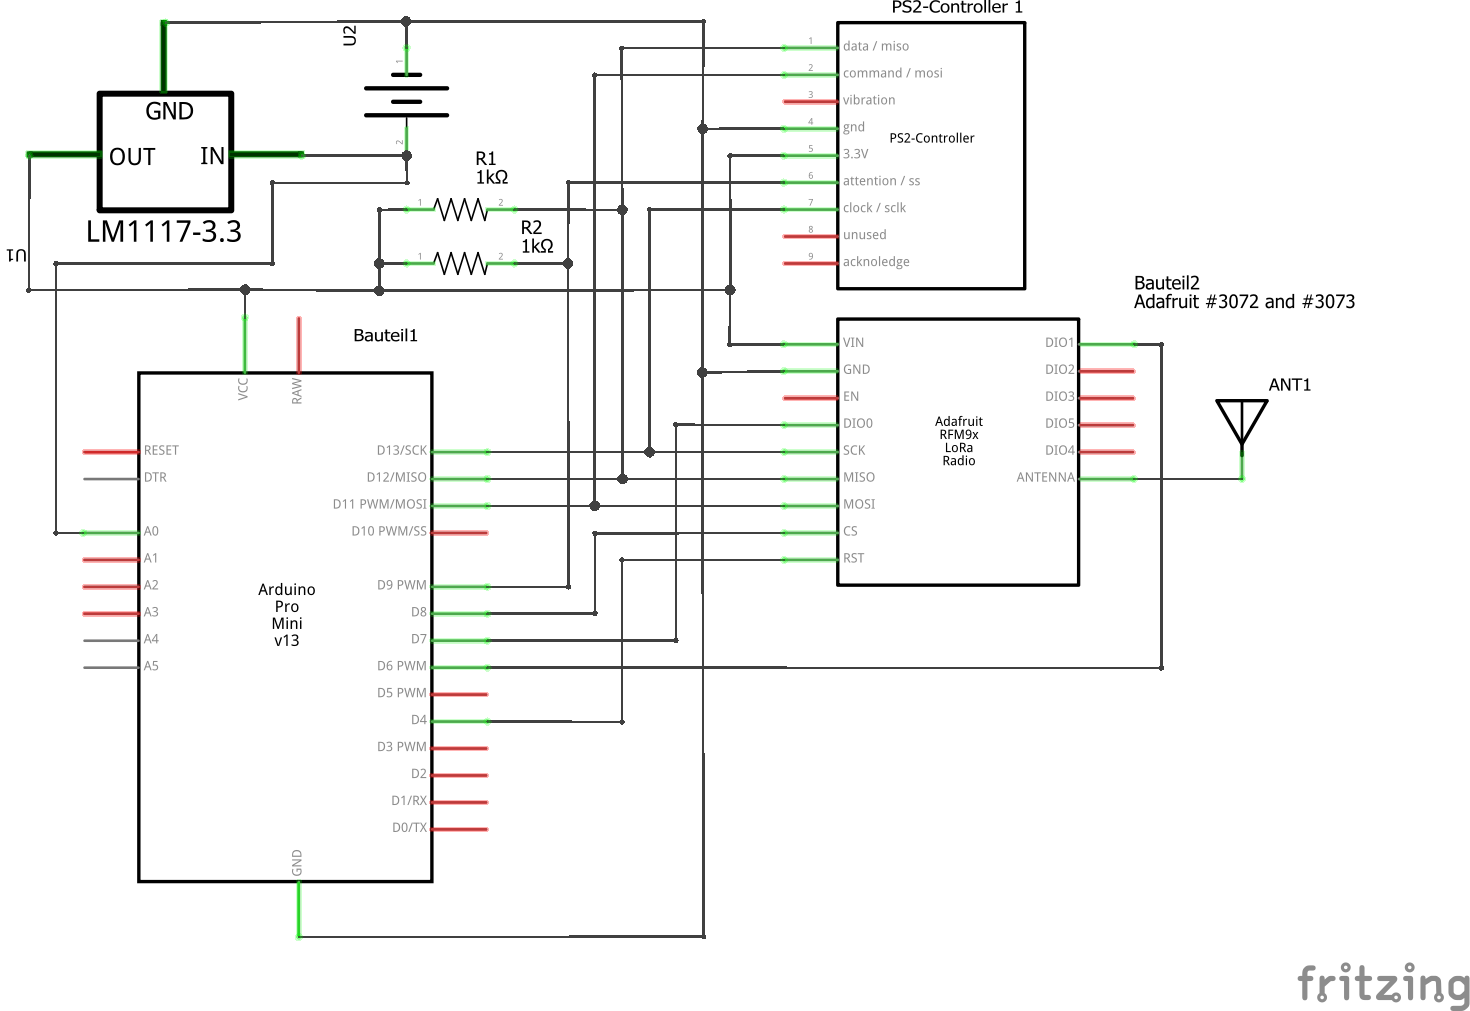
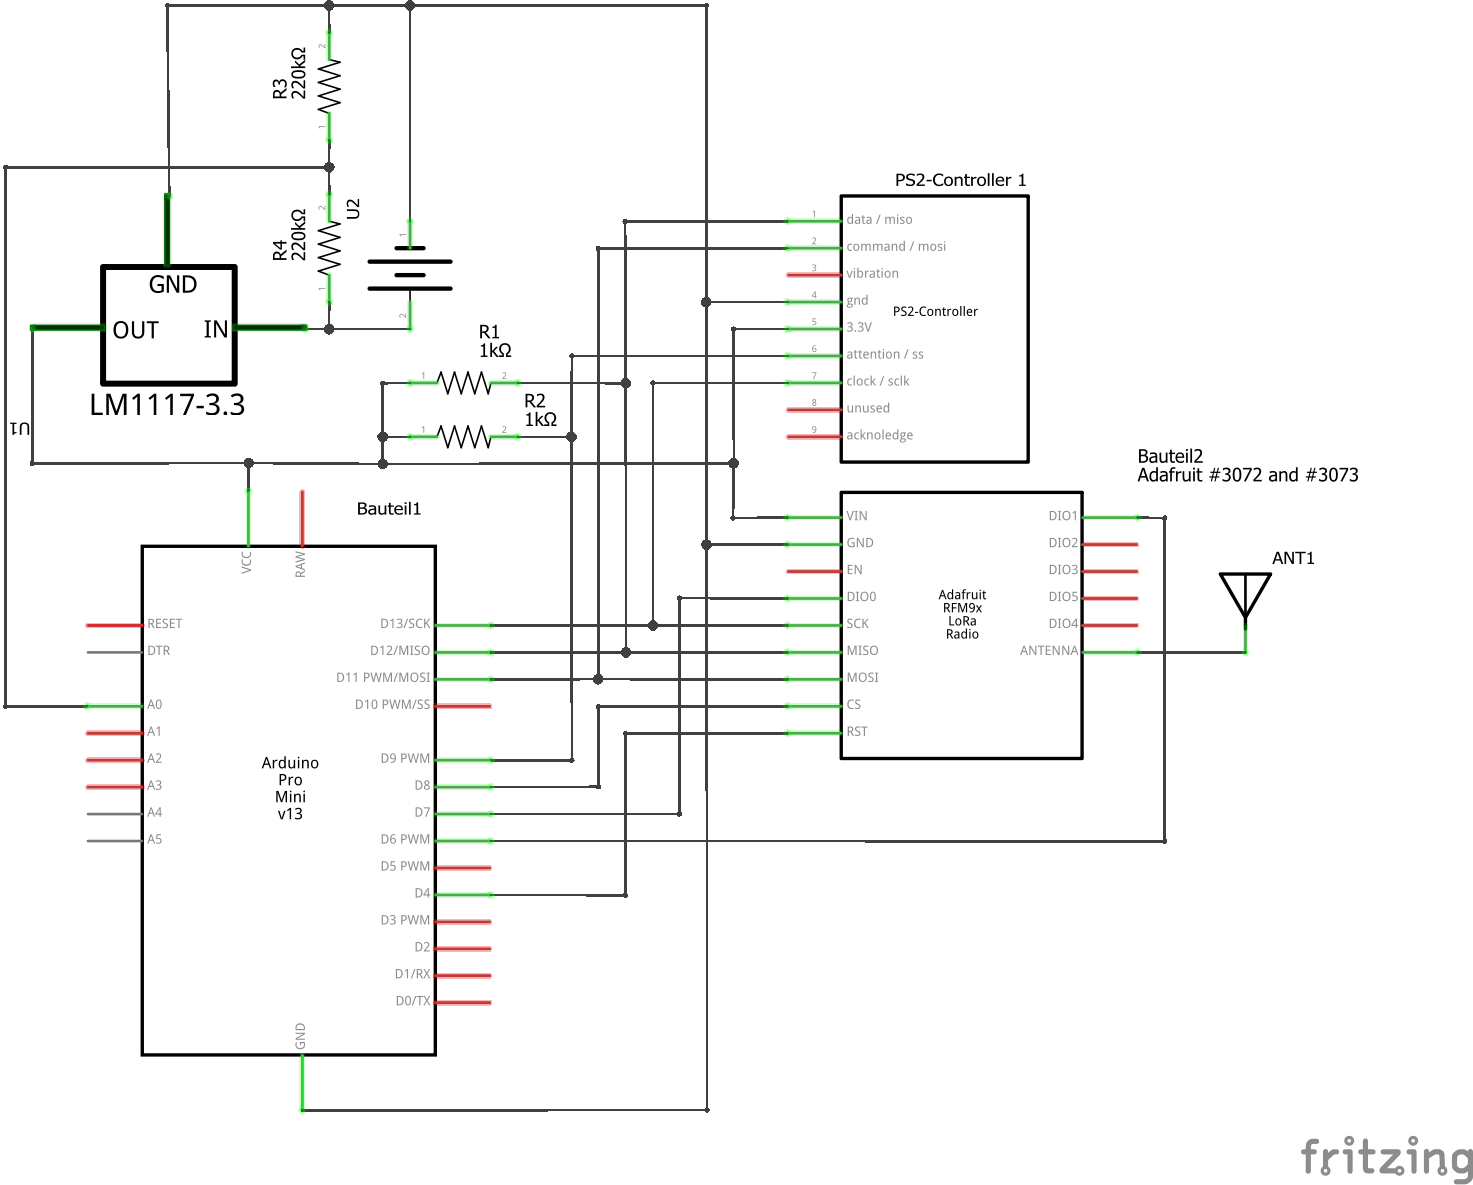
class LiPo for getting the current battery state in % and good/bad to turn off systems early enough not to damage lipo

diff --git a/LiPo.cpp b/LiPo.cpp
@@ -1,0 +1,98 @@
+#include "LiPo.hpp"
+
+const int MV[21] = {
+    3270, 3610, 3690, 3710, 3730, 3750, 
+    3770, 3790, 3800, 3820, 3840, 3850, 
+    3870, 3910, 3950, 3980, 4020, 4080, 
+    4110, 4150, 4200
+};
+
+LiPo::LiPo::LiPo(int t_v_ref_mv, int t_res) {
+    setReference(t_v_ref_mv, t_res);
+    init();
+}
+
+void LiPo::LiPo::init() {
+    for (int i = 0; i < 21; i++) {
+        m_lookup_table[i].per = i * 5;
+        m_lookup_table[i].mV = MV[i];
+    }
+
+    for (int i = 0; i < 4; i++) {
+        m_lookup_table[i].state = false;
+    }
+
+    for (int i = 4; i < 21 - 4; i++) {
+        m_lookup_table[i].state = true;
+    }
+}
+
+bool LiPo::LiPo::getState(int t_cw_lipo, int& t_lipo_mV, int& t_per) {
+    // 2 * because of voltage divider
+    int t_mV = t_cw_lipo * m_v_ref_mv * 2 / m_cw_ref;
+    int t_x = 0, i = 0;
+    int t_delta_down, t_delta_up;
+
+    while (t_mV > m_lookup_table[i + 1].mV) {
+        t_x++;
+        i++;
+
+        if (t_x == 20) {
+            break;
+        }
+    }
+
+    if (t_x != 20 && t_mV > m_lookup_table[0].mV) {
+        t_delta_down = t_mV - m_lookup_table[t_x].mV;
+        t_delta_up = m_lookup_table[t_x + 1].mV - t_mV;
+
+        if (t_delta_up < t_delta_down) {
+            t_x++;
+        }
+    }
+
+    t_lipo_mV = t_mV;
+	t_per = m_lookup_table[t_x].per;
+	return m_lookup_table[t_x].state;
+}
+
+void LiPo::LiPo::setReference(int t_v_ref_mv, int t_res) {
+    m_v_ref_mv = t_v_ref_mv;
+    for (int i = 0; i < t_res; i++) {
+        m_cw_ref *= 2;
+    }
+}
+
+//#define EXAMPLE
+
+#ifdef EXAMPLE
+
+#include <iostream>
+using namespace std;
+
+using namespace LiPo;
+
+int main() {
+    // U_ref = 3V3
+    // ADC resolution = 10 bits
+    class LiPo lipo(3300, 10);
+
+    // current lipo cw
+    int myCurrentCw = 4020 * 1024 / 3300 / 2;
+    int myCurrent_mV;
+
+    // battery percentage
+    int percentage;
+
+    if (lipo.getState(myCurrentCw, myCurrent_mV, percentage)) {
+        cout << "good battery state: V = " << myCurrent_mV 
+            << "mV == " << percentage << "%" << endl;
+    } else {
+        cout << "bad battery state: Cw = " << myCurrent_mV
+            << "mV == " << percentage << "%" << endl;
+    }
+    
+    return 0;
+}
+
+#endif

diff --git a/LiPo.hpp b/LiPo.hpp
@@ -1,0 +1,32 @@
+#ifndef LIPO_HPP_
+#define LIPO_HPP_
+
+namespace LiPo {
+
+struct tuple {
+	int per;
+	int mV;
+	bool state;
+};
+
+class LiPo {
+	
+public:
+
+	LiPo(int, int);
+
+	bool getState(int, int&, int&);
+	void setReference(int, int);
+
+private:
+
+	struct tuple m_lookup_table[21];
+	int m_v_ref_mv;
+	int m_cw_ref = 1;
+
+	void init();
+};
+
+}
+
+#endif
